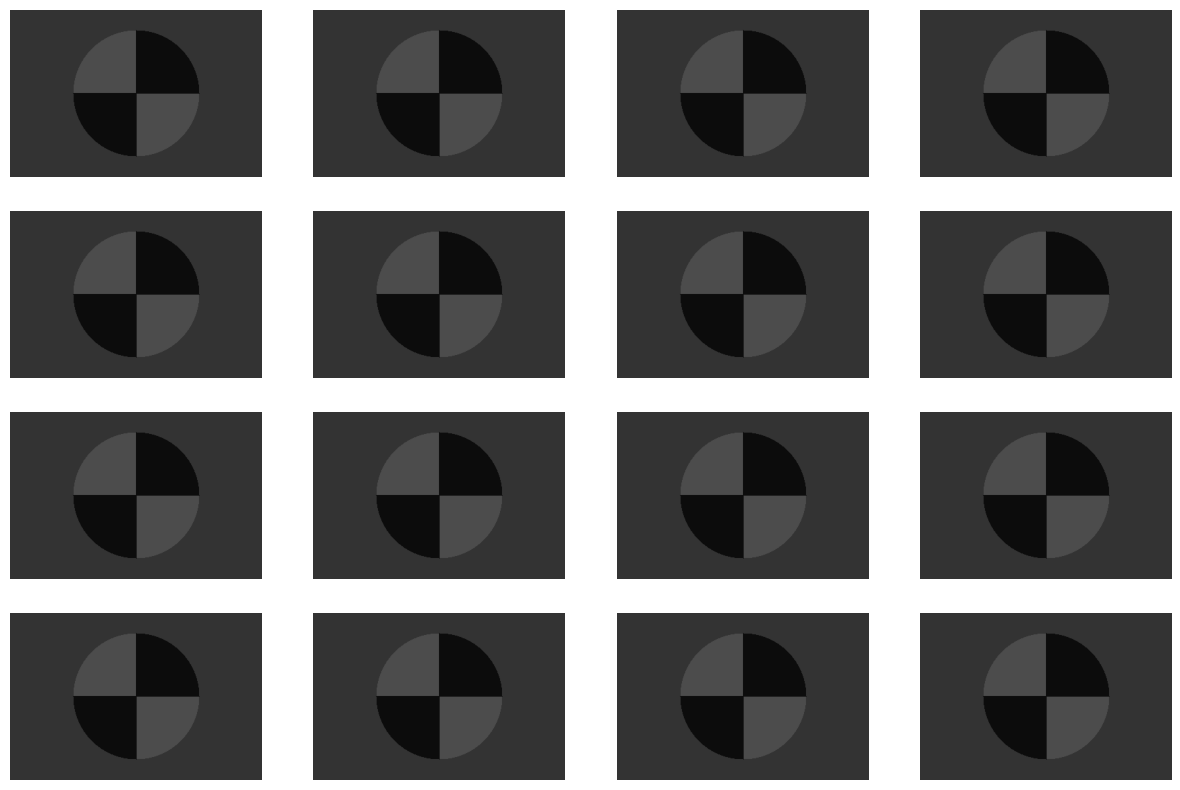
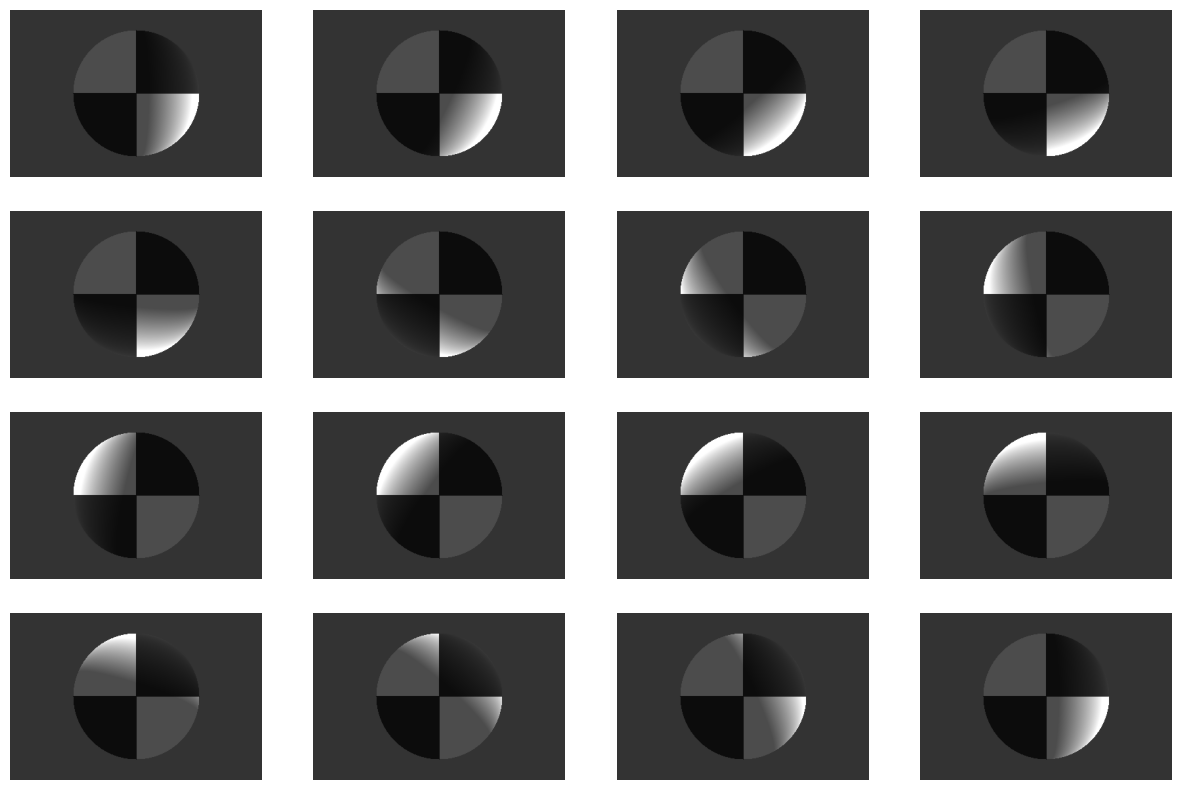
upload mp2, download mp3

diff --git a/MP2/render_image.py b/MP2/render_image.py
@@ -1,5 +1,6 @@
 import numpy as np
 from generate_scene import get_ball
+# from generate_scene_bunny import get_bunny
 import matplotlib.pyplot as plt
 
 # specular exponent
@@ -11,11 +12,15 @@ def pixel_world(x, y, Z, cx, cy, f):
   Y = (y - cy) * Z / f
   return X, Y
 
-# Generate unit direction vector from pixel(a, b, c) to (x, y, z)
-def direct_vector(x1, x2):
-  vec = np.array([x2[0] - x1[0], x2[1] - x1[1], x2[2] - x1[2]])
-  unit_vec = vec / np.linalg.norm(vec)
+# Generate unit direction vector in 3D matrix(unit vector of every pixel)
+def direct_mat(x1, x2):
+  vec = x2 - x1
+  unit_vec = vec / np.linalg.norm(vec, axis=2).reshape(vec.shape[0], vec.shape[1], 1)
   return unit_vec
+
+def mat_cos(x1, x2):
+  point_wise_2 = np.sum(x1 * x2, axis=2)
+  return point_wise_2
 
 def render(Z, N, A, S, 
            point_light_loc, point_light_strength, 
@@ -39,35 +44,39 @@ def render(Z, N, A, S,
     POINT_LIGHT_FLAG = True
   # Ambient Term
   I = A * ambient_light
-  for x in range(h):
-    for y in range(w):
+  real_world_coordinate = np.zeros((h, w, 3))
+  for x in range(w):
+    for y in range(h):
       # calculate the world coordinates of the pixel
-      X, Y = pixel_world(x, y, Z[x, y], cx, cy, f)
-      diffuse_intense = 0.0
-      specular_intense = 0.0      
-      if POINT_LIGHT_FLAG:
-      # point light: every pixel vi is different, si is different, it equals to light pos - pixel
-      # Diffuse Term
-        vi = direct_vector([X, Y, Z[x, y]], point_light_loc[0])
-        diffuse_intense = A[x, y] * point_light_strength[0] * max(0, np.dot(vi, N[x, y] / np.linalg.norm(N[x, y])))
-      # Specular Term
-        vr = direct_vector([0, 0, 0], [X, Y, Z[x, y]])
-        si = vi - 2 * np.dot(vi, N[x, y]) * N[x, y]
-        si = si / np.linalg.norm(si)
-        specular_intense = S[x, y] * point_light_strength[0] * (max(0, np.dot(si, vr)) ** k_e)
-      else: 
-      # directional light: every pixel vi is the same, all are the give vector. si is still different; but need to iterate 
-      # through all given direnctional light sources 
-        vr = direct_vector([0, 0, 0], [X, Y, Z[x, y]])
-        for i in range(len(directional_light_dirn)):
-      # Diffuse Term
-          vi = directional_light_dirn[i] / np.linalg.norm(directional_light_dirn[i])
-          diffuse_intense += A[x, y] * directional_light_strength[i] * max(0, np.dot(vi, N[x, y] / np.linalg.norm(N[x, y])))
-      # Specular Term
-          si = vi - 2 * np.dot(vi, N[x, y]) * N[x, y]
-          si = si / np.linalg.norm(si)
-          specular_intense += S[x, y] * directional_light_strength[i] * (max(0, np.dot(si, vr)) ** k_e)
-      I[x,y] += diffuse_intense + specular_intense
+      X, Y = pixel_world(x, y, Z[y, x], cx, cy, f)
+      real_world_coordinate[y, x] = [X, Y, Z[y, x]]
+  N = N / np.linalg.norm(N, axis=2).reshape(h, w, 1)
+  diffuse_intense = np.zeros((h, w))
+  specular_intense = np.zeros((h, w))
+  if POINT_LIGHT_FLAG:
+  # point light: every pixel vi is different, si is different, it equals to light pos - pixel
+  # Diffuse Term
+    vi = direct_mat(real_world_coordinate, point_light_loc[0])
+    diffuse_intense = A * point_light_strength[0] * np.maximum(mat_cos(vi, N), 0)
+  # Specular Term
+    vr = direct_mat(real_world_coordinate, [0, 0, 0])
+    si = -vi - 2 * (np.sum(-vi * N, axis=2)).reshape((h, w, 1)) * N
+    si = si / np.linalg.norm(si, axis=2).reshape(h, w, 1)
+    specular_intense = S * point_light_strength[0] * (np.maximum(mat_cos(vr, si), 0) ** k_e)
+  else: 
+  # directional light: every pixel vi is the same, all are the give vector. si is still different; but need to iterate 
+  # through all given direnctional light sources 
+    vr = direct_mat(real_world_coordinate, [0, 0, 0])
+    for i in range(len(directional_light_dirn)):
+  # Diffuse Term
+      vi = directional_light_dirn[i] / np.linalg.norm(directional_light_dirn[i])
+      diffuse_intense += A * directional_light_strength[i] * np.maximum(mat_cos(vi, N), 0)
+  # Specular Term
+      si = -vi - 2 * (np.sum(-vi * N, axis=2)).reshape((h, w, 1)) * N
+      si = si / np.linalg.norm(si, axis=2).reshape(h, w, 1)
+      specular_intense += S * directional_light_strength[i] * (np.maximum(mat_cos(vr, si), 0) ** k_e)
+  I += diffuse_intense + specular_intense
+      
   I = np.minimum(I, 1)*255
   I = I.astype(np.uint8)
   I = np.repeat(I[:,:,np.newaxis], 3, axis=2)

diff --git a/MP2/generate_scene_bunny.py b/MP2/generate_scene_bunny.py
@@ -27,24 +27,25 @@ def get_bunny(specular=False,diffuse=0.6):
     return Z, N, A, S
   
 if __name__ == '__main__':
-  Z, N, A, S = get_bunny(True)
-  
-  fig = plt.figure(constrained_layout=False, figsize=(20, 5))
-  gs1 = fig.add_gridspec(nrows=1, ncols=4, left=0.05, right=0.95, wspace=0.05, top=0.95, bottom=0.05)
-  axes = []
-  for i in range(4):
-    axes.append(fig.add_subplot(gs1[0,i]))
-    axes[-1].set_axis_off()
-  
-  axes[0].imshow(Z, cmap='gray', vmin=0, vmax=5)
-  axes[0].set_title('Depth, Z')
-  # visualizing surface normals using a commonly used color map.
-  N[:,:,0] = -N[:,:,0]
-  axes[1].imshow((-N[:,:,[0,1,2]]+1)/2.)
-  axes[1].set_title('Surface normal, N')
-  axes[2].imshow(A, cmap='gray', vmin=0, vmax=1)
-  axes[2].set_title('Ambient reflection coefficient, $k_a =$ Diffuse reflection coefficient, $k_d$')
-  axes[3].imshow(S, cmap='gray', vmin=0, vmax=1)
-  axes[3].set_title('Specular reflection coefficient, $k_s$')
-  plt.savefig('input_bunny.png', bbox_inches='tight')
+  for specular in [True, False]:
+    Z, N, A, S = get_bunny(specular)
+    
+    fig = plt.figure(constrained_layout=False, figsize=(20, 5))
+    gs1 = fig.add_gridspec(nrows=1, ncols=4, left=0.05, right=0.95, wspace=0.05, top=0.95, bottom=0.05)
+    axes = []
+    for i in range(4):
+      axes.append(fig.add_subplot(gs1[0,i]))
+      axes[-1].set_axis_off()
+    
+    axes[0].imshow(Z, cmap='gray', vmin=0, vmax=5)
+    axes[0].set_title('Depth, Z')
+    # visualizing surface normals using a commonly used color map.
+    N[:,:,0] = -N[:,:,0]
+    axes[1].imshow((-N[:,:,[0,1,2]]+1)/2.)
+    axes[1].set_title('Surface normal, N')
+    axes[2].imshow(A, cmap='gray', vmin=0, vmax=1)
+    axes[2].set_title('Ambient reflection coefficient, $k_a =$ Diffuse reflection coefficient, $k_d$')
+    axes[3].imshow(S, cmap='gray', vmin=0, vmax=1)
+    axes[3].set_title('Specular reflection coefficient, $k_s$')
+    plt.savefig(f'{specular}_input_bunny.png', bbox_inches='tight')
 
